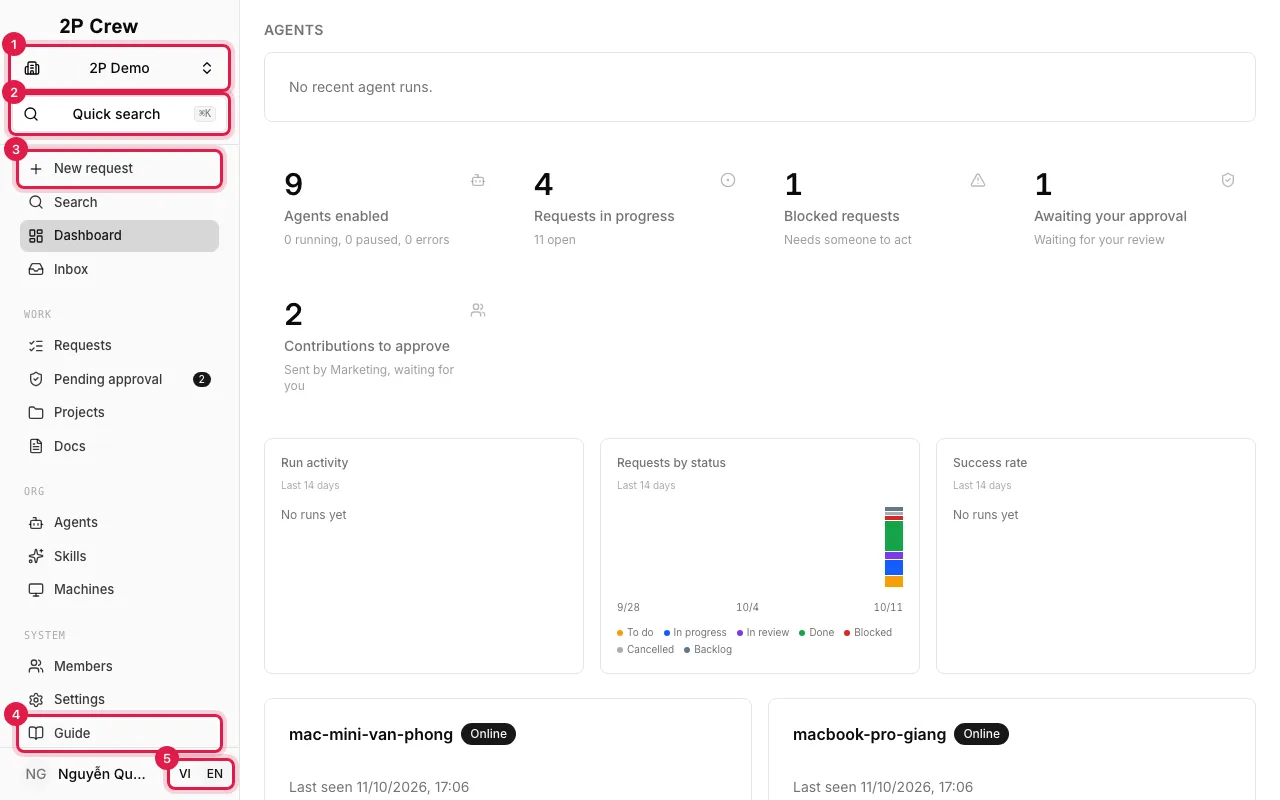
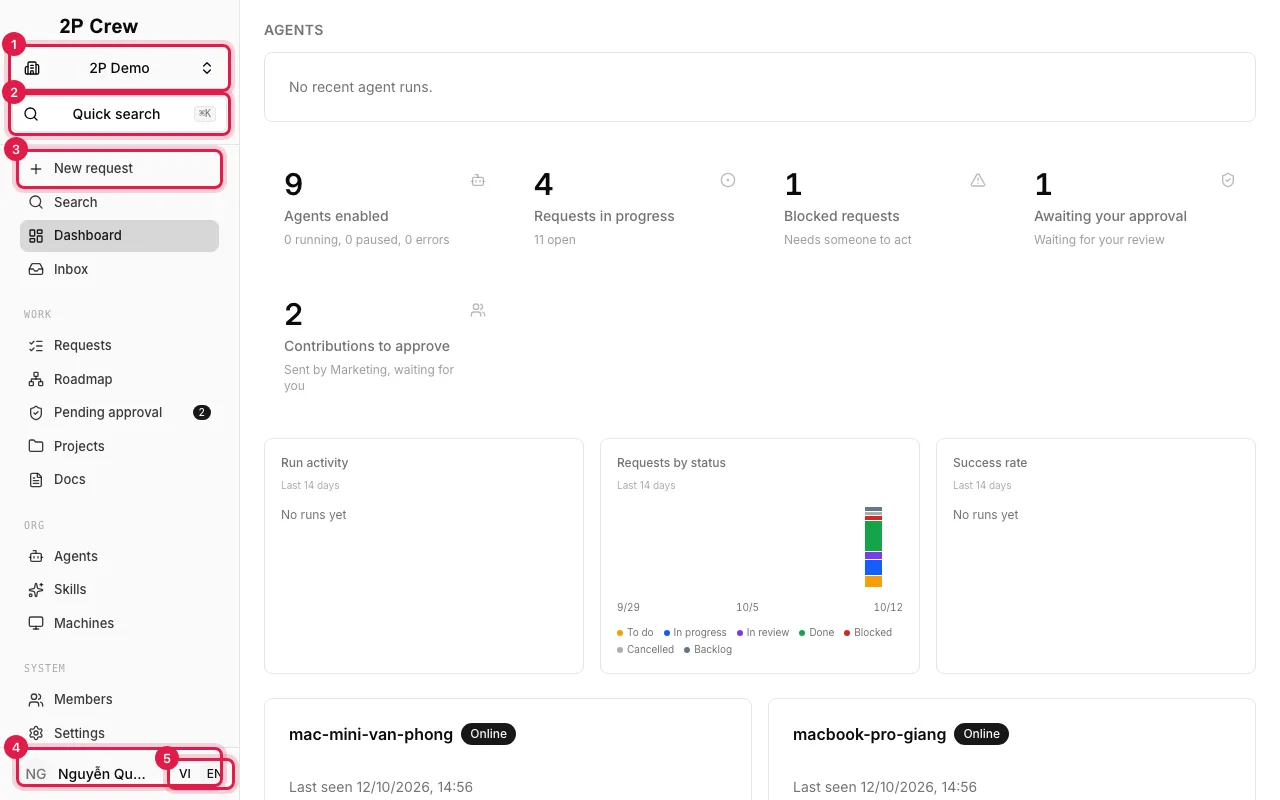
test(crew-web): ca e2e S22 Roadmap và mục Roadmap trong Hướng dẫn
- PW-S22-1: owner đi công ty → project → yêu cầu → việc con, cạnh chặn, popup
  ?issue=, Esc đóng popup rồi lùi tầng, Back, breadcrumb, dạng danh sách.
- PW-S22-2: thành viên bị giới hạn chỉ thấy project được cấp; deep link project
  hay yêu cầu không được xem ra thông báo chung.
- PW-S22-3: nhánh Docs, mở trang trong popup, link "Mở trong trang Docs".
- Mã BA S22.1, S22.2 và bản đồ phủ.
- Hướng dẫn vi/en: mục Roadmap (đi vào, lùi ra, màu, nét đứt, Docs, danh sách),
  thêm Roadmap vào danh sách thanh bên; ảnh roadmap mới, chụp lại ảnh thanh bên.

diff --git a/packages/crew-web/e2e/specs/s22-roadmap.spec.ts b/packages/crew-web/e2e/specs/s22-roadmap.spec.ts
@@ -1,0 +1,179 @@
+// S22 Roadmap: bản đồ công ty → project → yêu cầu do người tạo → cây việc con, nhánh Docs, và lọc theo quyền project.
+// Dữ liệu ca dựng bằng API phiên owner (nên có `createdByUserId`). Việc gốc do agent tạo không dựng được vì policy Crew
+// từ chối agent tạo issue gốc (`crew_agent_root_issue`); bộ lọc đó có unit test ở test/features/roadmap.
+import type { Page } from '@playwright/test';
+import { archiveProject, createIssue, createProject, uniqueToken, waitInCompactList } from '../support/data';
+import { expect, test } from '../support/fixtures';
+import { memberProjects, setMemberProjects } from '../support/project-access';
+
+const node = (page: Page, id: string) => page.locator(`button[data-roadmap-id="${id}"]`);
+const notFound = 'Không tìm thấy hoặc bạn không được xem';
+
+test('PW-S22-1 owner đi từ công ty vào project, yêu cầu, việc con; popup, Esc, Back và dạng danh sách @t1', async ({
+  page,
+  api,
+  company,
+}) => {
+  const token = uniqueToken('s22');
+  const a = await createProject(api, company.id, `PW-S22 A ${token}`);
+  try {
+    const root = await createIssue(api, company.id, { title: `PW-S22 yêu cầu ${token}`, projectId: a.id });
+    const first = await createIssue(api, company.id, {
+      title: `PW-S22 việc 1 ${token}`,
+      projectId: a.id,
+      parentId: root.id,
+    });
+    const second = await createIssue(api, company.id, {
+      title: `PW-S22 việc 2 ${token}`,
+      projectId: a.id,
+      parentId: root.id,
+      blockedByIssueIds: [first.id],
+    });
+    await waitInCompactList(api, company.id, [root.id, first.id, second.id]);
+
+    await page.goto(company.path('roadmap'));
+    await expect(page.getByRole('heading', { name: 'Roadmap', exact: true })).toBeVisible();
+    await expect(node(page, 'company')).toBeFocused();
+    await expect(node(page, a.id)).toHaveAttribute('aria-label', `Project ${a.name}: 1 yêu cầu, 1 đang mở`);
+
+    // Bấm project: camera phóng vào, URL đổi sang tầng project; chỉ yêu cầu gốc, không có việc con ở tầng này.
+    await node(page, a.id).click();
+    await expect(page).toHaveURL(new RegExp(`roadmap\\?project=${a.id}$`));
+    await expect(node(page, root.id)).toBeVisible();
+    await expect(node(page, first.id)).toHaveCount(0);
+    await expect(page.getByRole('navigation', { name: 'Đường dẫn trang' })).toContainText(a.name);
+
+    // Bấm yêu cầu: cây việc con với cạnh chặn.
+    await node(page, root.id).click();
+    await expect(page).toHaveURL(new RegExp(`request=${root.identifier}`));
+    await expect(node(page, first.id)).toBeVisible();
+    await expect(node(page, second.id)).toBeVisible();
+    await expect(page.locator('path[data-edge-kind="blocks"]')).toHaveCount(1);
+
+    // Việc con mở popup chi tiết có sẵn; Esc đóng popup, Esc nữa lùi về tầng project.
+    await node(page, second.id).click();
+    await expect(page).toHaveURL(new RegExp(`issue=${second.identifier}`));
+    await expect(page.getByTestId('issue-popup')).toContainText(second.title);
+    await page.keyboard.press('Escape');
+    await expect(page.getByTestId('issue-popup')).toHaveCount(0);
+    await expect(page).toHaveURL(new RegExp(`request=${root.identifier}$`));
+    await page.keyboard.press('Escape');
+    await expect(page).toHaveURL(new RegExp(`roadmap\\?project=${a.id}$`));
+    await expect(node(page, root.id)).toBeFocused();
+
+    // Back trình duyệt trở lại tầng yêu cầu; breadcrumb về tầng công ty.
+    await page.goBack();
+    await expect(page).toHaveURL(new RegExp(`request=${root.identifier}$`));
+    await expect(node(page, second.id)).toBeVisible();
+    await page.getByRole('link', { name: company.name, exact: true }).click();
+    await expect(page).toHaveURL(new RegExp(`${company.path('roadmap')}$`));
+    await expect(node(page, a.id)).toBeVisible();
+
+    // Dạng danh sách cho cùng nội dung.
+    await page.goto(company.path(`roadmap?project=${a.id}&request=${root.identifier}&view=list`));
+    const list = page.getByRole('region', { name: 'Bản đồ dạng danh sách' });
+    await expect(list.locator(`[data-roadmap-id="${first.id}"]`)).toBeVisible();
+    await expect(list.locator(`[data-roadmap-id="${second.id}"]`)).toBeVisible();
+    await list.locator(`[data-roadmap-id="${first.id}"]`).click();
+    await expect(page.getByTestId('issue-popup')).toContainText(first.title);
+  } finally {
+    await archiveProject(api, a.id);
+  }
+});
+
+test('PW-S22-2 thành viên bị giới hạn chỉ thấy project được cấp, deep link project khác ra thông báo chung @t1', async ({
+  api,
+  contributorPage: guest,
+  contributorApi,
+  company,
+}) => {
+  const token = uniqueToken('s22g');
+  const a = await createProject(api, company.id, `PW-S22 A ${token}`);
+  const b = await createProject(api, company.id, `PW-S22 B ${token}`);
+  const { userId } = await contributorApi.get<{ userId: string }>(`/api/crew/companies/${company.id}/access`);
+  const before = (await memberProjects(api, company.id, userId))?.projectIds ?? [];
+  try {
+    const issueA = await createIssue(api, company.id, { title: `PW-S22 việc A ${token}`, projectId: a.id });
+    const issueB = await createIssue(api, company.id, { title: `PW-S22 việc B ${token}`, projectId: b.id });
+    await waitInCompactList(api, company.id, [issueA.id, issueB.id]);
+    await setMemberProjects(api, company.id, userId, [...new Set([...before, a.id])]);
+
+    await guest.goto(company.path('roadmap'));
+    await expect(node(guest, a.id)).toBeVisible();
+    await expect(node(guest, b.id)).toHaveCount(0);
+    await expect(node(guest, 'none')).toHaveCount(0);
+
+    await guest.goto(company.path(`roadmap?project=${a.id}`));
+    await expect(node(guest, issueA.id)).toBeVisible();
+
+    await guest.goto(company.path(`roadmap?project=${b.id}`));
+    await expect(guest.getByText(notFound)).toBeVisible();
+    await expect(node(guest, issueB.id)).toHaveCount(0);
+    await guest.goto(company.path(`roadmap?project=${a.id}&request=${issueB.identifier}`));
+    await expect(guest.getByText(notFound)).toBeVisible();
+  } finally {
+    await setMemberProjects(api, company.id, userId, before);
+    await archiveProject(api, a.id);
+    await archiveProject(api, b.id);
+  }
+});
+
+test('PW-S22-3 nhánh Docs: vào bộ docs, mở trang trong popup, link sang trang Docs @t1', async ({
+  page,
+  api,
+  company,
+}) => {
+  // Bản docs chỉ có khi máy đã ghép gửi lên; ca chỉ đọc nên dùng project có docs của company e2e, không có thì của
+  // company khác mà board xem được (ví dụ company mẫu ảnh hướng dẫn trên T1).
+  const companies = await api.get<{ id: string; issuePrefix: string }[]>('/api/companies');
+  const ordered = [company, ...companies.filter((c) => c.id !== company.id)];
+  let found: { prefix: string; companyId: string; projectId: string } | null = null;
+  for (const c of ordered) {
+    const docsProjects = await api
+      .crewData<{ projectId: string }[]>('crew.docs.projects', c.id)
+      .catch(() => [] as { projectId: string }[]);
+    if (!docsProjects.length) continue;
+    const projects = await api.get<{ id: string; archivedAt?: string | null }[]>(`/api/companies/${c.id}/projects`);
+    const live = new Set(projects.filter((p) => !p.archivedAt).map((p) => p.id));
+    const hit = docsProjects.find((d) => live.has(d.projectId));
+    if (hit) {
+      found = { prefix: c.issuePrefix, companyId: c.id, projectId: hit.projectId };
+      break;
+    }
+  }
+  test.skip(!found, 'Chưa có project nào có bản docs');
+  const { prefix, companyId, projectId } = found as NonNullable<typeof found>;
+  const at = (to: string) => `/${prefix}/${to}`;
+  const tree = await api.crewData<{ pages: { path: string; title: string }[] } | null>('crew.docs.tree', companyId, {
+    projectId,
+  });
+  test.skip(!tree?.pages.length, 'Bản docs không có trang nào');
+  const pages = tree?.pages ?? [];
+
+  await page.goto(at(`roadmap?project=${projectId}`));
+  const docs = node(page, `docs:${projectId}`);
+  await expect(docs).toHaveAttribute('aria-label', `Docs: ${pages.length} trang`);
+  await docs.click();
+  await expect(page).toHaveURL(new RegExp(`project=${projectId}&docs=1$`));
+
+  // Đi tới trang đầu tiên: vào từng thư mục trên đường dẫn của nó (nếu có) rồi bấm trang.
+  const target = pages[0];
+  const parts = target.path.split('/');
+  for (let i = 1; i < parts.length; i++) {
+    const folder = parts.slice(0, i).join('/');
+    await node(page, `dir:${folder}`).click();
+    await expect(page).toHaveURL(new RegExp(`folder=${encodeURIComponent(folder)}$`));
+  }
+  await node(page, `page:${target.path}`).click();
+  await expect(page).toHaveURL(new RegExp(`doc=${encodeURIComponent(target.path)}`));
+  const popup = page.getByTestId('roadmap-doc-popup');
+  await expect(popup).toContainText(target.path);
+  await expect(popup.getByRole('link', { name: 'Mở trong trang Docs' })).toHaveAttribute(
+    'href',
+    at(`docs?${new URLSearchParams({ project: projectId, path: target.path })}`),
+  );
+  await page.keyboard.press('Escape');
+  await expect(popup).toHaveCount(0);
+  await expect(page).not.toHaveURL(/doc=/);
+  await expect(node(page, `page:${target.path}`)).toBeVisible();
+});

diff --git a/packages/crew-web/e2e/specs/guide-shots.spec.ts b/packages/crew-web/e2e/specs/guide-shots.spec.ts
@@ -523,6 +523,28 @@ const RECIPES: Recipe[] = [
     },
   },
   {
+    id: 'roadmap',
+    as: ['owner'],
+    frame: 'main',
+    open: async (c) => {
+      await go(c, 'roadmap');
+      const body = main(c.page);
+      await body.locator('button[data-roadmap-kind="project"]').filter({ hasText: GUIDE_PROJECTS[0].name }).click();
+      await expect(c.page).toHaveURL(/project=/);
+      const docs = body.locator('button[data-roadmap-kind="docs"]');
+      await expect(docs).not.toHaveAttribute('aria-disabled', 'true');
+      await settle(c.page);
+      // Chuyển tầng có hiệu ứng camera: chờ thu ra xong mới chụp.
+      await c.page.waitForTimeout(900);
+      return [
+        m(body.getByRole('navigation', { name: c.L('Đường dẫn trang', 'Breadcrumb') }), 1),
+        m(docs, 2),
+        m(body.locator('button[data-roadmap-kind="request"]:not([data-center])').first(), 3),
+        m(btn(body, c.L('Danh sách', 'List')), 4),
+      ];
+    },
+  },
+  {
     id: 'members',
     as: ['owner'],
     frame: 'main',

diff --git a/packages/crew-web/src/features/guide/shots.ts b/packages/crew-web/src/features/guide/shots.ts
@@ -27,6 +27,7 @@ export const GUIDE_SHOTS: readonly GuideShot[] = [
   shot('issues-filter'),
   shot('issues-columns'),
   shot('issue-popup', ALL),
+  shot('roadmap'),
   shot('issue-gate'),
   shot('force-done'),
   shot('new-request'),

diff --git a/packages/crew-web/src/features/guide/content/huong-dan.vi.md b/packages/crew-web/src/features/guide/content/huong-dan.vi.md
@@ -80,23 +80,23 @@ Thanh bên trái chia nhóm giống Paperclip gốc. Trên ảnh:
 
 Các nhóm còn lại:
 {{roles:owner}}
-- **Công việc**: Yêu cầu, **Chờ duyệt** (góp ý của Phòng Marketing, con số là số mục đang chờ), Project, Docs.
+- **Công việc**: Yêu cầu, Roadmap, **Chờ duyệt** (góp ý của Phòng Marketing, con số là số mục đang chờ), Project, Docs.
 - **Tổ chức**: Agent, Skills, Máy.
 - **Hệ thống**: **Thành viên**, Cài đặt, Hướng dẫn, **Mở giao diện Paperclip gốc**.
 {{/roles}}
 {{roles:operator}}
-- **Công việc**: Yêu cầu, Project, Docs.
+- **Công việc**: Yêu cầu, Roadmap, Project, Docs.
 - **Tổ chức**: Agent, Skills, Máy.
 - **Hệ thống**: Cài đặt, Hướng dẫn.
 {{/roles}}
 {{roles:viewer}}
-- **Công việc**: Yêu cầu, Project, Docs.
+- **Công việc**: Yêu cầu, Roadmap, Project, Docs.
 - **Hệ thống**: Cài đặt, Hướng dẫn.
 
 Bạn không thấy Hộp thư, Agent, Skills và Máy vì vai trò Chỉ xem không dùng các trang đó.
 {{/roles}}
 {{roles:contributor}}
-- **Công việc**: Yêu cầu, **Góp ý của tôi** (những gì bạn đã gửi), Project, Docs.
+- **Công việc**: Yêu cầu, Roadmap, **Góp ý của tôi** (những gì bạn đã gửi), Project, Docs.
 - **Hệ thống**: Cài đặt, Hướng dẫn.
 {{/roles}}
 
@@ -236,6 +236,30 @@ Bạn đọc được mọi thứ trong cửa sổ, nhưng không có ô bình l
 {{roles:contributor}}
 Ô bình luận của bạn gửi bình luận để owner duyệt (mục [Bình luận góp ý](#send-comment)). Bạn không sửa hay đổi trạng thái được.
 {{/roles}}
+
+### Roadmap {#roadmap}
+
+{{shot:roadmap}}
+
+Trang [Roadmap](/roadmap) vẽ cả company thành một bản đồ: company ở giữa, các project tỏa quanh. Mỗi project ghi số yêu cầu do người tạo và số đang mở. Bạn chỉ thấy các project được cấp; yêu cầu do agent tự tạo (routine) không hiện.
+
+Trên ảnh:
+1. **Đường dẫn** company › project › yêu cầu: bấm một chặng để về tầng đó.
+2. Nút **Docs** của project: số trang tài liệu, hoặc **Chưa có docs** khi máy chưa gửi bản docs nào.
+3. Một **yêu cầu**: viền trái theo màu trạng thái, thanh tiến độ "x/y việc con xong".
+4. **Bản đồ / Danh sách**: xem cùng nội dung dạng danh sách lồng nhau (gọn hơn trên điện thoại, đọc được bằng trình đọc màn hình).
+
+#### Đi vào và lùi ra
+
+1. Bấm một project: bản đồ phóng vào project đó rồi thu ra để lộ các yêu cầu của nó.
+2. Bấm một yêu cầu: lộ cây việc con (cả cháu chắt). Đường liền nối cha với con; đường đứt có mũi tên là **chặn**: việc ở đầu mũi tên phải chờ việc kia xong.
+3. Bấm một việc con, hoặc yêu cầu ở giữa: mở [cửa sổ chi tiết yêu cầu](#issue-popup).
+4. Bấm **Docs**: lộ thư mục và trang tài liệu của project. Bấm thư mục để đi vào, bấm trang để đọc trong cửa sổ nổi; link trong bài mở trang khác ngay trong cửa sổ, nút **Mở trong trang Docs** mở đúng trang đó ở trang [Docs](/docs).
+5. Lùi một tầng bằng nút **Lùi**, phím **Esc**, đường dẫn ở trên, hoặc nút Back của trình duyệt.
+
+Kéo để di chuyển, cuộn hoặc chụm hai ngón để phóng to, nút **+ / − / ⤢** ở góc dưới phải. Một tầng quá nhiều mục thì hiện nút **+N khác**: bấm để xem đủ ở dạng danh sách.
+
+> **Mẹo:** tầng đang xem nằm trên địa chỉ trang, nên chép địa chỉ là gửi được đúng chỗ đang xem cho người khác.
 
 ### Giao một yêu cầu mới {#new-request roles=owner,operator}
 

diff --git a/packages/crew-web/src/features/guide/content/guide.en.md b/packages/crew-web/src/features/guide/content/guide.en.md
@@ -80,23 +80,23 @@ The left sidebar is grouped like the original Paperclip. On the screenshot:
 
 The other groups:
 {{roles:owner}}
-- **Work**: Requests, **Pending approval** (Marketing contributions, the number is how many are waiting), Projects, Docs.
+- **Work**: Requests, Roadmap, **Pending approval** (Marketing contributions, the number is how many are waiting), Projects, Docs.
 - **Org**: Agents, Skills, Machines.
 - **System**: **Members**, Settings, Guide, **Open original Paperclip UI**.
 {{/roles}}
 {{roles:operator}}
-- **Work**: Requests, Projects, Docs.
+- **Work**: Requests, Roadmap, Projects, Docs.
 - **Org**: Agents, Skills, Machines.
 - **System**: Settings, Guide.
 {{/roles}}
 {{roles:viewer}}
-- **Work**: Requests, Projects, Docs.
+- **Work**: Requests, Roadmap, Projects, Docs.
 - **System**: Settings, Guide.
 
 You do not see Inbox, Agents, Skills and Machines because the Viewer role does not use those pages.
 {{/roles}}
 {{roles:contributor}}
-- **Work**: Requests, **My contributions** (what you have sent), Projects, Docs.
+- **Work**: Requests, Roadmap, **My contributions** (what you have sent), Projects, Docs.
 - **System**: Settings, Guide.
 {{/roles}}
 
@@ -236,6 +236,30 @@ You can read everything in the popup, but there is no comment box and no action 
 {{roles:contributor}}
 Your comment box sends comments for the owner to approve (section [Contribution comments](#send-comment)). You cannot edit or change the status.
 {{/roles}}
+
+### Roadmap {#roadmap}
+
+{{shot:roadmap}}
+
+The [Roadmap](/roadmap) page draws the whole company as a map: the company in the middle, its projects around it. Each project shows how many human-created requests it has and how many are open. You only see the projects granted to you; requests created by agents on their own (routines) are not shown.
+
+On the screenshot:
+1. **Path** company › project › request: click a step to go back to that level.
+2. The project's **Docs** node: the number of doc pages, or **No docs yet** when no machine has sent a docs snapshot.
+3. A **request**: left border in its status color, a progress bar "x/y sub-tasks done".
+4. **Map / List**: the same content as a nested list (more compact on a phone, readable by screen readers).
+
+#### Going in and out
+
+1. Click a project: the map zooms into it, then zooms out to reveal its requests.
+2. Click a request: its tree of sub-tasks appears (grandchildren too). A solid line links parent and child; a dashed line with an arrow means **blocks**: the task at the arrow waits for the other one to finish.
+3. Click a sub-task, or the request in the middle: opens the [request popup](#issue-popup).
+4. Click **Docs**: the project's doc folders and pages appear. Click a folder to go in, click a page to read it in a popup; links in the text open the other page right in the popup, and **Open in Docs page** opens that page on the [Docs](/docs) page.
+5. Go up one level with **Back**, the **Esc** key, the path at the top, or the browser Back button.
+
+Drag to move, scroll or pinch to zoom, or use **+ / − / ⤢** at the bottom right. When a level has too many items, a **+N more** node appears: click it to see them all in the list view.
+
+> **Tip:** the level you are on is part of the page address, so copying the address sends someone exactly what you are looking at.
 
 ### Create a new request {#new-request roles=owner,operator}
 
